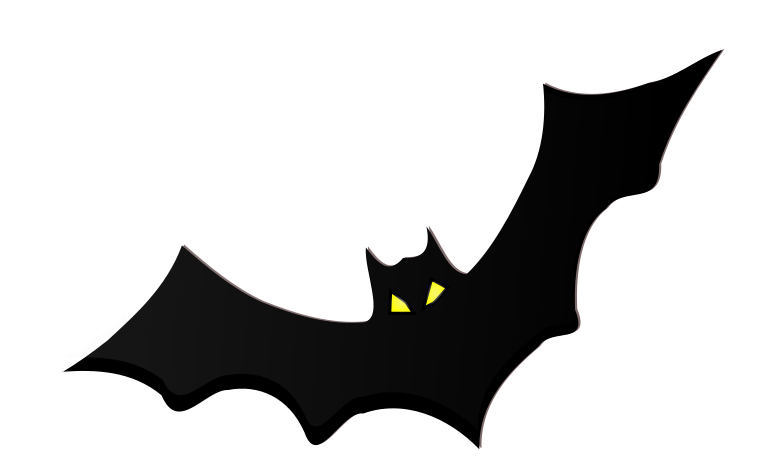
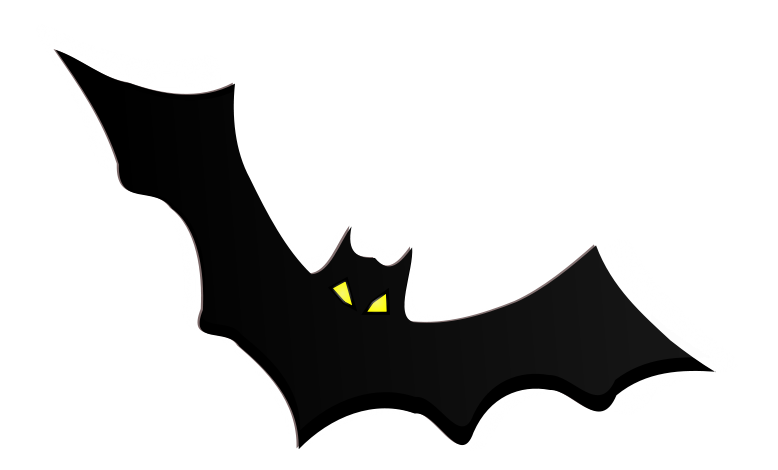
Some modifications.

Changed region(s): [[0.0617, 0.0894, 0.9254, 0.9532], [0.3702, 0.8638, 0.5553, 0.9532]]

diff --git a/theatre-bubbles/python_qml/qml/main2.qml b/theatre-bubbles/python_qml/qml/main2.qml
@@ -23,9 +23,9 @@ Rectangle {
             if ( (lastDiff > 0) && (diff < 0) ) {
                 think1TurnBubbleLeft.start();
             }
-            if ( (lastDiff < 0) && (diff > 0) ) {
-                think1TurnBubbleRight.start();
-            }
+            //if ( (lastDiff < 0) && (diff > 0) ) {
+            //    think1TurnBubbleRight.start();
+            //}
             //think1.width = (200 - diff*3);
             lastX = mouse.x;
             if (diff != 0) {
@@ -44,7 +44,7 @@ Rectangle {
     Image {
         id: think1
         source: "think3.png"
-        x: 480
+        x: 400
         y: 800
         
         Text {
@@ -78,7 +78,6 @@ Rectangle {
             anchors.topMargin: 40
             anchors.leftMargin: 10
             anchors.horizontalCenter: parent.horizontalCenter
-            //horizontalAlignment: Text.AlignHCenter
             font.pixelSize: 35
             font.bold: false
             font.family: "Ravie"
@@ -95,12 +94,32 @@ Rectangle {
         
         Text {
             anchors.top: parent.top
-            anchors.topMargin: 80
+            anchors.topMargin: 100
             anchors.horizontalCenter: parent.horizontalCenter
             font.pixelSize: 50
             font.bold: false
             font.family: "Ravie"
-            text: "    KA\nBOUM??"
+            text: "BOUM??"
+        }
+
+    }
+
+    Image {
+        id: think4
+        source: "think7.png"
+        x: 260
+        y: 800
+        
+        Text {
+            anchors.top: parent.top
+            anchors.left: parent.left
+            anchors.topMargin: 80
+            anchors.leftMargin: 120
+            //anchors.horizontalCenter: parent.horizontalCenter
+            font.pixelSize: 35
+            font.bold: false
+            font.family: "Ravie"
+            text: "       Safa,\nque esta é das\n fantásticas..."
         }
 
     }
@@ -108,7 +127,7 @@ Rectangle {
     Particles {
         id: particles
         
-        source: "star3.png";
+        source: "star2.png";
    
         width: 1; height: 1
         anchors.centerIn: think2
@@ -125,7 +144,7 @@ Rectangle {
     Particles {
         id: particles2
         
-        source: "star2.png";
+        source: "star3.png";
    
         width: 1; height: 1
         anchors.centerIn: think3
@@ -141,17 +160,21 @@ Rectangle {
     
     Image {
         id: buddha
-        source: "buddha.png"
+        source: "buddha2.png"
         opacity: 0
-        anchors.centerIn: parent
+        //anchors.centerIn: parent
+        anchors.top: parent.top
+        anchors.left: parent.left
+        anchors.leftMargin: 200
+        anchors.topMargin: 120
     }
 
     Image {
         id: bat
-        source: "bat.png"
+        source: "bat2.png"
         opacity: 0
         x: 600
-        y: 80
+        y: 100
     }
 
     Keys.onPressed: {
@@ -200,6 +223,16 @@ Rectangle {
             event.accepted = true;
             think3Animation2.start();
         }
+        else if (event.key == Qt.Key_U) {
+            console.log('Key U was pressed');
+            event.accepted = true;
+            think4Animation1.start();
+        }
+        else if (event.key == Qt.Key_I) {
+            console.log('Key I was pressed');
+            event.accepted = true;
+            think4Animation2.start();
+        }
         else if (event.key == Qt.Key_Y) {
             console.log('Key Y was pressed');
             event.accepted = true;
@@ -224,7 +257,7 @@ Rectangle {
 
     ParallelAnimation {
         id: think1Animation1
-        SpringAnimation { target: think1; property: "y"; from: 800; to: 350; spring: 0.7; damping: 0.1 }
+        SpringAnimation { target: think1; property: "y"; from: 800; to: 250; spring: 0.7; damping: 0.1 }
         SequentialAnimation {
             PropertyAnimation { target: think1; property: "height"; to: 150; duration: 500; }            
             PropertyAnimation { target: think1; property: "height"; to: 207; duration: 500; }            
@@ -309,10 +342,10 @@ Rectangle {
 
     ParallelAnimation {
         id: think3Animation1
-        SpringAnimation { target: think3; property: "y"; from: 800; to: 150; spring: 0.7; damping: 0.1 }
+        SpringAnimation { target: think3; property: "y"; from: 800; to: 200; spring: 0.7; damping: 0.1 }
         SequentialAnimation {
-            PropertyAnimation { target: think3; property: "height"; to: 350; duration: 500; }            
-            PropertyAnimation { target: think3; property: "height"; to: 414; duration: 500; }
+            PropertyAnimation { target: think3; property: "height"; to: 300; duration: 500; }            
+            PropertyAnimation { target: think3; property: "height"; to: 362; duration: 500; }
         }
     }
 
@@ -322,13 +355,29 @@ Rectangle {
         PropertyAnimation { target: think3; property: "opacity"; to: 0; duration: 500; easing.type: "OutCubic" }
     }
     
+
+    ParallelAnimation {
+        id: think4Animation1
+        SpringAnimation { target: think4; property: "y"; from: 800; to: 50; spring: 0.7; damping: 0.1 }
+        SequentialAnimation {
+            PropertyAnimation { target: think4; property: "height"; to: 450; duration: 500; }            
+            PropertyAnimation { target: think4; property: "height"; to: 500; duration: 500; }
+        }
+    }
+
+    ParallelAnimation {
+        id: think4Animation2
+        //ScriptAction { script: particles2.burst(2000); }
+        PropertyAnimation { target: think4; property: "opacity"; to: 0; duration: 500; easing.type: "OutCubic" }
+    }
+
     NumberAnimation { id: buddhaAnimation1; target: buddha; property: "opacity"; from: 0.0; to: 0.9; duration: 2000;  easing { type: Easing.OutBack; } }    
     PropertyAnimation { id: buddhaAnimation2; target: buddha; property: "opacity"; to: 0; duration: 2000;  easing { type: Easing.InBack; }  }
 
     ParallelAnimation {
         id: batAnimation1;
         NumberAnimation {  target: bat; property: "opacity"; from: 0.0; to: 0.9; duration: 2000; }    
-        PropertyAnimation {  target: bat; property: "x"; from: 600; to: 200; duration: 1500;  easing { type: Easing.OutBack; } }    
+        PropertyAnimation {  target: bat; property: "x"; from: -600; to: 0; duration: 1500;  easing { type: Easing.OutBack; } }    
     }
     
     PropertyAnimation { id: batAnimation2; target: bat; property: "opacity"; to: 0; duration: 1000;  easing { type: Easing.InBack; }  }

diff --git a/soundexperiments/phasevocoder.py b/soundexperiments/phasevocoder.py
@@ -1,0 +1,54 @@
+# phase vocoder example
+# (c) V Lazzarini, 2010
+# GNU Public License
+# # # # # # # # # # # # # # # # # # # # # # # # # # # # # # # # # # # # #
+ 
+import sys
+from scipy import *
+from pylab import *
+from scipy.io import wavfile
+ 
+N = 2048
+H = N/4
+ 
+# read input and get the timescale factor
+(sr,signalin) = wavfile.read(sys.argv[2])
+L = len(signalin)
+tscale = float(sys.argv[1])
+ 
+# signal blocks for processing and output
+phi  = zeros(N)
+out = zeros(N, dtype=complex)
+sigout = zeros(L/tscale+N)
+ 
+# max input amp, window
+amp = max(signalin)
+print amp
+win = hanning(N)
+ 
+p = 0
+pp = 0
+while p < L-(N+H):
+    # take the spectra of two consecutive windows
+    p1 = int(p)
+    spec1 =  fft(win*signalin[p1:p1+N])
+    spec2 =  fft(win*signalin[p1+H:p1+N+H])
+    # take their phase difference and integrate
+    phi += (angle(spec2) - angle(spec1))
+    # bring the phase back to between pi and -pi
+    while phi < -pi: phi += 2*pi
+    while phi >= pi: phi -= 2*pi
+    out.real, out.imag = cos(phi), sin(phi)
+    # inverse FFT and overlap-add
+    sigout[pp:pp+N] += win*ifft(abs(spec2)*out)
+    pp += H
+    p += H*tscale
+ 
+#  write file to output, scaling it to original amp
+#wavfile.write(sys.argv[3],sr,array(amp*sigout/max(sigout), dtype='int16'))
+
+#  play it using a libsndfile utility
+import pygame
+pygame.mixer.init(frequency=sr)
+snd_array = array(amp*sigout/max(sigout), dtype='int16')
+pygame.sndarray.make_sound(snd_array)

diff --git a/soundexperiments/createaudiobuffer.py b/soundexperiments/createaudiobuffer.py
@@ -1,0 +1,5 @@
+# coding: utf-8
+from PyQt4 import QtCore
+
+buff = QtCore.QBuffer(ba)
+buff.open(QtCore.QIODevice.ReadOnly)
